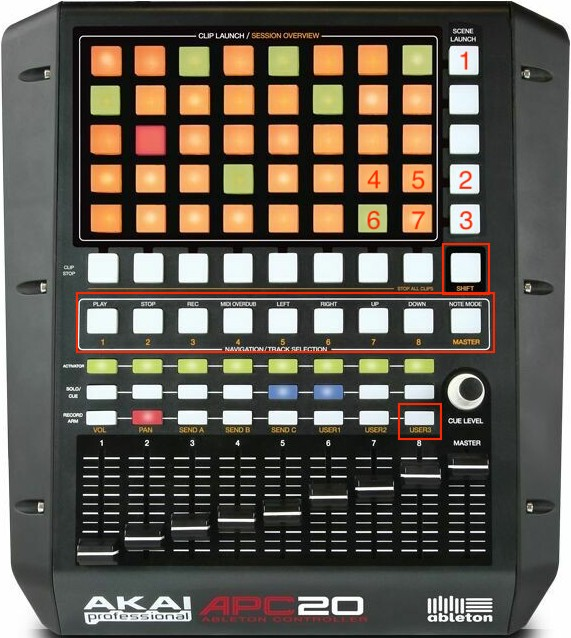
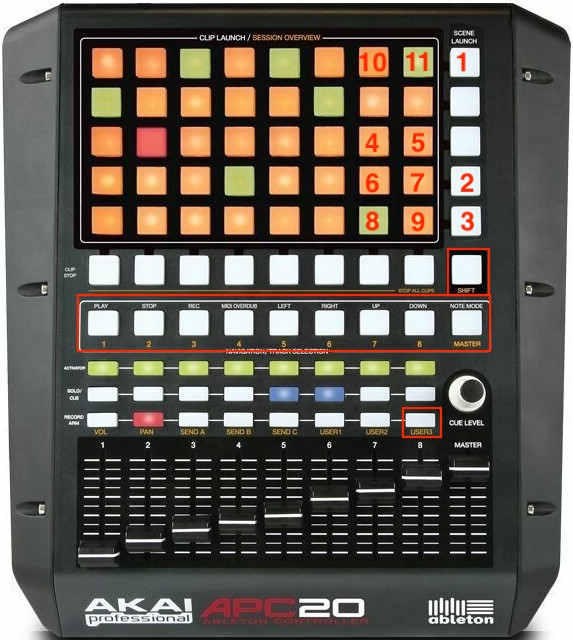
v2 - Switch between device banks, nudge

diff --git a/src/ShiftableSelectorComponent.py b/src/ShiftableSelectorComponent.py
@@ -3,12 +3,13 @@ from __future__ import absolute_import, print_function, unicode_literals
 from functools import partial
 from _Framework.ModeSelectorComponent import ModeSelectorComponent
 from _Framework.Layer import Layer
+from _APC.ControlElementUtils import make_button
 from .consts import NOTE_MODE, ABLETON_MODE
 
 class ShiftableSelectorComponent(ModeSelectorComponent):
     u""" SelectorComponent that assigns buttons to functions based on the shift button """
 
-    def __init__(self, select_buttons, master_button, tap_tempo_button, arm_buttons, matrix, session, zooming, mixer, transport, slider_modes, mode_callback, note_matrix, background, device, detail_view_toggler, device_on_off_button, device_lock_button, device_clip_toggle_button, detail_toggle_button, detail_left_button, detail_right_button, *a, **k):
+    def __init__(self, select_buttons, master_button, tap_tempo_button, arm_buttons, matrix, session, zooming, mixer, transport, slider_modes, mode_callback, note_matrix, background, device, detail_view_toggler, device_on_off_button, device_lock_button, device_clip_toggle_button, detail_toggle_button, detail_left_button, detail_right_button, device_bank_prev_button, device_bank_next_button, nudge_up_button, nudge_down_button, *a, **k):
         assert len(select_buttons) == 8
         assert len(arm_buttons) == 8
         super(ShiftableSelectorComponent, self).__init__(*a, **k)
@@ -36,6 +37,14 @@ class ShiftableSelectorComponent(ModeSelectorComponent):
         self._detail_toggle_button = detail_toggle_button
         self._detail_left_button = detail_left_button
         self._detail_right_button = detail_right_button
+        self._device_bank_prev_button= device_bank_prev_button
+        self._device_bank_next_button = device_bank_next_button
+        self._nudge_up_button = nudge_up_button
+        self._nudge_down_button = nudge_down_button
+        # It's silly fix but it works.
+        # I create fake button with non existing in APC20 midi parameters to cheat _is_banking_enabled function from Framework.DeviceComponent
+        # it makes banking enabled even if shift button is not pressed
+        self._fake_button = make_button(10, 87, name=u'Fake_Button')
         self._master_button.add_value_listener(self._master_value)
 
     def disconnect(self):
@@ -62,6 +71,10 @@ class ShiftableSelectorComponent(ModeSelectorComponent):
         self._detail_toggle_button = None
         self._detail_left_button = None
         self._detail_right_button = None
+        self._device_bank_prev_button= None
+        self._device_bank_next_button = None
+        self._nudge_up_button = None
+        self._nudge_down_button = None
         
     def set_mode_toggle(self, button):
         super(ShiftableSelectorComponent, self).set_mode_toggle(button)
@@ -79,16 +92,19 @@ class ShiftableSelectorComponent(ModeSelectorComponent):
         self._session.set_scene_bank_buttons(down, up)
         self._zooming.set_nav_buttons(up, down, left, right)
 
-    def _set_transport_controls(self, play, stop, rec, overdub, tap_tempo):
+    def _set_transport_controls(self, play, stop, rec, overdub, tap_tempo, nudge_up, nudge_down):
         self._transport.set_play_button(play)
         self._transport.set_stop_button(stop)
         self._transport.set_record_button(rec)
         self._transport.set_overdub_button(overdub)
         self._transport.set_tap_tempo_button(tap_tempo)
+        self._transport.set_nudge_buttons(nudge_up, nudge_down)
 
-    def _set_device_buttons(self, on_off, lock):
+    def _set_device_buttons(self, on_off, lock, prev_bank, next_bank):
         self._device.set_on_off_button(on_off)
         self._device.set_lock_button(lock)
+        self._device.set_bank_prev_button(prev_bank)
+        self._device.set_bank_next_button(next_bank)
 
     def _set_details_button(self, clip_toggle, detail_toggle, left_button, right_button):
         self._detail_view_toggler.set_device_clip_toggle_button(clip_toggle)
@@ -105,15 +121,15 @@ class ShiftableSelectorComponent(ModeSelectorComponent):
                     strip.set_select_button(None)
 
                 self._mixer.master_strip().set_select_button(None)
-                self._set_transport_controls(self._select_buttons[0], self._select_buttons[1], self._select_buttons[2], self._select_buttons[3], self._tap_tempo_button)
-                self._set_device_buttons(self._device_on_off_button, self._device_lock_button)
+                self._set_transport_controls(self._select_buttons[0], self._select_buttons[1], self._select_buttons[2], self._select_buttons[3], self._tap_tempo_button, self._nudge_up_button, self._nudge_down_button)
+                self._set_device_buttons(self._device_on_off_button, self._device_lock_button, self._device_bank_prev_button, self._device_bank_next_button)
                 self._set_details_button(self._device_clip_toggle_button, self._detail_toggle_button, self._detail_left_button, self._detail_right_button)
                 if not self._note_mode_active:
                     self._set_session_navigation_controls(self._select_buttons[4], self._select_buttons[5], self._select_buttons[6], self._select_buttons[7])
                 self._on_note_mode_changed()
             elif self._mode_index == 1:
-                self._set_transport_controls(None, None, None, None, None)
-                self._set_device_buttons(None, None)
+                self._set_transport_controls(None, None, None, None, None, None, None)
+                self._set_device_buttons(None, None, None, self._fake_button)
                 self._set_details_button(None, None, None, None)
                 self._set_session_navigation_controls(None, None, None, None)
                 for index in range(len(self._select_buttons)):
@@ -162,8 +178,8 @@ class ShiftableSelectorComponent(ModeSelectorComponent):
                         button.clear_send_cache()
 
                     self._note_matrix.reset()
-                self._set_transport_controls(self._select_buttons[0], self._select_buttons[1], self._select_buttons[2], self._select_buttons[3], self._tap_tempo_button)
-                self._set_device_buttons(self._device_on_off_button, self._device_lock_button)
+                self._set_transport_controls(self._select_buttons[0], self._select_buttons[1], self._select_buttons[2], self._select_buttons[3], self._tap_tempo_button, self._nudge_up_button, self._nudge_down_button)
+                self._set_device_buttons(self._device_on_off_button, self._device_lock_button, self._device_bank_prev_button, self._device_bank_next_button)
                 self._set_details_button(self._device_clip_toggle_button, self._detail_toggle_button, self._detail_left_button, self._detail_right_button)
                 self._transport.update()
                 if self._note_mode_active:

diff --git a/src/APC20.py b/src/APC20.py
@@ -8,7 +8,6 @@ from _Framework.ButtonMatrixElement import ButtonMatrixElement
 from _Framework.ChannelTranslationSelector import ChannelTranslationSelector
 from _Framework.EncoderElement import EncoderElement
 from _Framework.InputControlElement import MIDI_CC_TYPE
-from _Framework.Layer import Layer
 from _Framework.TransportComponent import TransportComponent
 from _Framework.Util import nop
 from _APC.APC import APC
@@ -80,14 +79,16 @@ class APC20(APC):
 
             self._note_matrix.add_row(row)
         self._tap_tempo_button = self._scene_launch_buttons[0]
-        self._device_on_off_button = self._matrix.get_button(6, 3)
-        self._device_lock_button = self._matrix.get_button(7, 3)
-        self._device_clip_toggle_button = self._scene_launch_buttons[3]
-        self._detail_toggle_button = self._scene_launch_buttons[4]
+        self._device_on_off_button = self._matrix.get_button(6, 2)
+        self._device_lock_button = self._matrix.get_button(7, 2)
+        self._device_clip_toggle_button = self._scene_launch_buttons[4]
+        self._detail_toggle_button = self._scene_launch_buttons[3]
         self._detail_left_button = self._matrix.get_button(6, 4)
         self._detail_right_button = self._matrix.get_button(7, 4)
-        # self._device_bank_prev_button = self._matrix.get_button(6, 3)
-        # self._device_bank_next_button = self._matrix.get_button(7, 3)
+        self._nudge_up_button = self._matrix.get_button(7, 0)
+        self._nudge_down_button = self._matrix.get_button(6, 0)
+        self._device_bank_prev_button = self._matrix.get_button(6, 3)
+        self._device_bank_next_button = self._matrix.get_button(7, 3)
 
     def _create_session(self):
         self._session = SessionComponent(SESSION_WIDTH, SESSION_HEIGHT, name=u'Session_Control', auto_name=True, enable_skinning=True)
@@ -137,7 +138,7 @@ class APC20(APC):
 
     def _create_global_control(self):
         self._slider_modes = SliderModesComponent(self._mixer, tuple(self._sliders), self._device, name=u'Slider_Modes')
-        self._shift_modes = ShiftableSelectorComponent(tuple(self._select_buttons), self._master_select_button, self._tap_tempo_button, tuple(self._arm_buttons), self._matrix, self._session, self._session_zoom, self._mixer, self._transport, self._slider_modes, self._send_introduction_message, self._note_matrix, self._background, self._device, self._detail_view_toggler, self._device_on_off_button, self._device_lock_button, self._device_clip_toggle_button, self._detail_toggle_button, self._detail_left_button, self._detail_right_button, name=u'Shift_Modes')
+        self._shift_modes = ShiftableSelectorComponent(tuple(self._select_buttons), self._master_select_button, self._tap_tempo_button, tuple(self._arm_buttons), self._matrix, self._session, self._session_zoom, self._mixer, self._transport, self._slider_modes, self._send_introduction_message, self._note_matrix, self._background, self._device, self._detail_view_toggler, self._device_on_off_button, self._device_lock_button, self._device_clip_toggle_button, self._detail_toggle_button, self._detail_left_button, self._detail_right_button, self._device_bank_prev_button, self._device_bank_next_button, self._nudge_up_button, self._nudge_down_button, name=u'Shift_Modes')
         self._shift_modes.set_mode_toggle(self._shift_button)
 
     def _product_model_id_byte(self):

diff --git a/README.md b/README.md
@@ -4,24 +4,30 @@ Remote script for Akai APC20 controller with added few features:
 - Tap tempo
 - Reversed functionality of track selection buttons
 
+This is 2nd version of the script. For v1 go [here](https://github.com/tomekskuta/APC20_DC/tree/v1).
+
 ## How it works
 ![Akai APC20](./APC20.jpeg)
 
 All numbered buttons work only if `SHIFT` is pressed:
 - `1` - Tap tempo
-- `2` - Toggle between Device view selector and Clip view selector
-- `3` - Show/hide detail view
+- `2` - Show/hide detail view
+- `3` - Toggle between Device view selector and Clip view selector
 - `4` - On/off selected device
 - `5` - Lock/unlock selected device to control
-- `6` - Switch to previous device on chain
-- `7` - Switch to next device on chain
+- `6` - Switch to previous bank on device
+- `7` - Switch to next bank on device
+- `8` - Switch to previous device on chain
+- `9` - Switch to next device on chain
+- `11` - Phase nudge down
+- `12` - Phase nudge up
 
 On image I also marked button for `USER3` bank which you can activate with pressed `SHIFT` as well. Then sliders are are controlling selected device.
 
 #### `Navigation/Track selection` buttons
 It's unexpected thing but when I added device control feature functionality of these buttons reversed. Now if you push some of these buttons corresponding track will be selected. `PLAY`, `STOP`, `REC`, `MIDI OVERDUB`, navigation and `NOTE MODE` works if `SHIFT` is pressed.
-Navigation buttons switch between tracks and scenes banks instead of single tracks and scenes (works like zooming session overview). It's something I don't know how to fix yet.
-In general I like this reverse feature so I decided to leave it as it is now and for me it works even better.
+Navigation buttons switch between tracks and scenes banks instead of single tracks and scenes (works like zooming session overview). It's something I don't know how to fix for now.
+In general I like this reverse feature so I decided to leave it as it is now.
 
 ## How to use it
 - [clone the repo](https://docs.github.com/en/repositories/creating-and-managing-repositories/cloning-a-repository)
@@ -35,6 +41,7 @@ I use original APC20 remote script from Ableton Live 10 which is written in Pyth
 Additional features buttons are highlighted initially. They turn off after pressing `SHIFT` button once and then are working normally.
 
 ### TODO
-- Add switching between device banks
 - Fix navigation buttons to switch between single track/scene instead of whole banks
 - Fix initially highlight of new features buttons
+
+Probably I won't fix these bugs - the script works good enough and those things aren't too important to spend more time on them ;)
